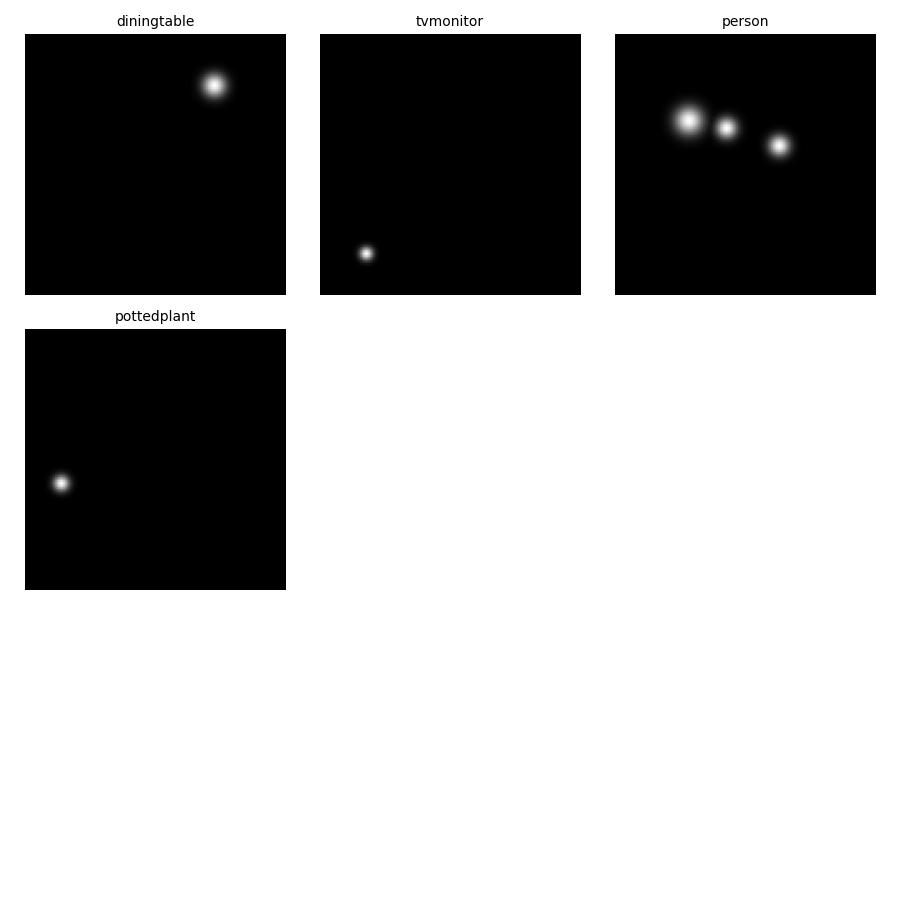
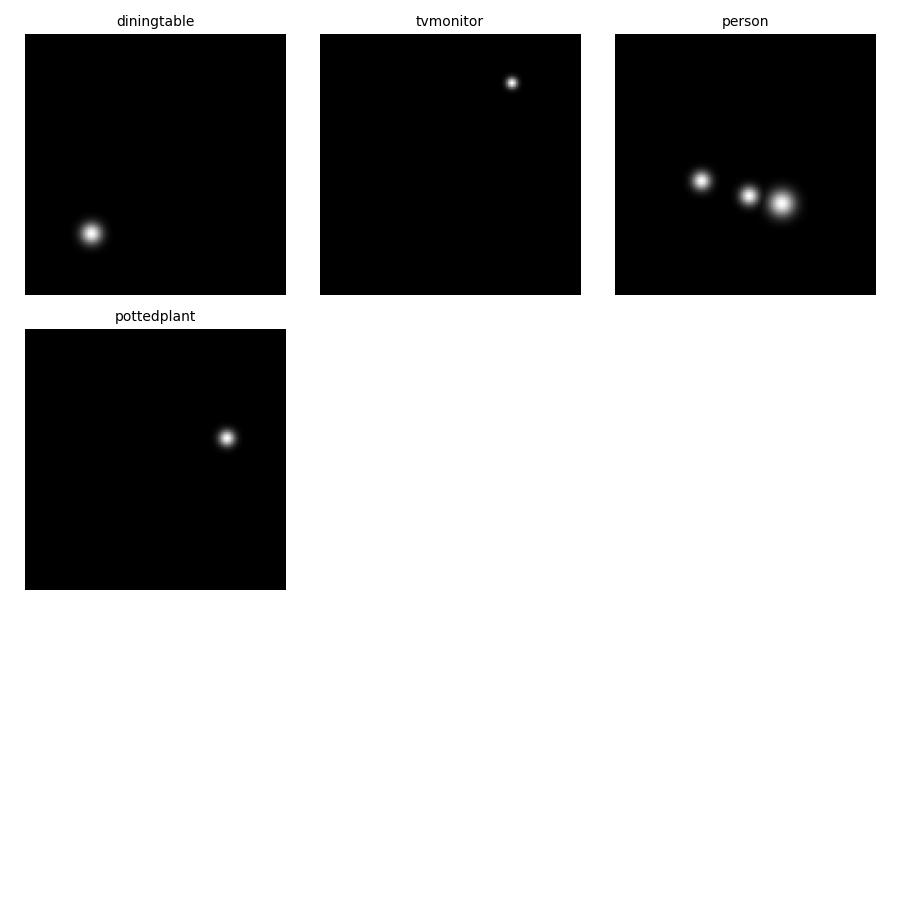
先关闭数据增强，来可视化对应的结果

diff --git a/test_utils/pred_feature_map.py b/test_utils/pred_feature_map.py
@@ -209,6 +209,7 @@ def draw_labeles():
     print(f"batch_offset: {batch_offset.shape}")
     print(f"batch_offset_mask: {batch_offset_mask.shape}")
 
+    # region heatmap
     hm_list = [batch_hm[...,cls] for cls in clses]
 
     # 创建一个 3x3 的子图布局 (最多 9 个子图)
@@ -228,11 +229,55 @@ def draw_labeles():
     img_name = train_dataset.get_image_id(img_idx) +"_heatmap"
     plt.savefig(osp.join(test_save_path,img_name + ".jpg"))
     plt.show()
+    # endregion
+    # region batch_wh
+
+def test():
+    np.random.seed(42)  # 设置随机种子，确保每次运行结果一致
+
+    # 创建一个100x100的图像，随机生成每个像素的宽高 (w, h)
+    image_wh = np.random.randint(1, 10, size=(100, 100, 2))  # 每个像素的宽高范围在 1 到 10 之间
+
+    # 创建一个绘图窗口
+    fig, ax = plt.subplots(figsize=(10, 10))
+
+    # 设置网格（背景图）
+    ax.set_xticks(np.arange(0, 101, 1))
+    ax.set_yticks(np.arange(0, 101, 1))
+    ax.grid(which='both')
+
+    # 绘制每个格子的箭头
+    for i in range(100):
+        for j in range(100):
+            w, h = image_wh[i, j]
+
+            if w > 0 and h > 0:
+                # 计算中心点
+                x_center, y_center = j + 0.5, i + 0.5  # 每个像素的中心
+                # 绘制左右箭头，长度为 w/2，方向为水平方向
+                ax.arrow(x_center, y_center, w / 2, 0, head_width=0.5, head_length=1, fc='r', ec='r')
+                ax.arrow(x_center, y_center, -w / 2, 0, head_width=0.5, head_length=1, fc='r', ec='r')
+                # 绘制上下箭头，长度为 h/2，方向为垂直方向
+                ax.arrow(x_center, y_center, 0, h / 2, head_width=0.5, head_length=1, fc='b', ec='b')
+                ax.arrow(x_center, y_center, 0, -h / 2, head_width=0.5, head_length=1, fc='b', ec='b')
+
+    # 设置坐标轴范围与图像大小
+    ax.set_xlim(0, 100)
+    ax.set_ylim(100, 0)  # y轴是倒的，和图像坐标一致
+    ax.set_aspect('equal')
+
+    # 隐藏坐标轴
+    ax.axis('off')
+
+    # 显示图像
+    plt.title('Visualization of Object Width and Height (w, h) with Arrows')
+    plt.show()
 
 if __name__ == '__main__':
     # test_train()
     # transform_image_bboxes()
     # ann_to_label()
-    draw_bboxes()
+    # draw_bboxes()
     # test_data_set()
-    # draw_labeles()
+    draw_labeles()
+    # test()

diff --git a/core/dataset/dataset.py b/core/dataset/dataset.py
@@ -52,8 +52,8 @@ class CenterNetDataset(Dataset):
         # Read image and bounding boxes
         image, bboxes = self.parse_annotation(index)
 
-        if self.is_train:
-            image, bboxes = self.data_augmentation(image, bboxes)
+        # if self.is_train:
+        #     image, bboxes = self.data_augmentation(image, bboxes)
 
         # Image preprocess
         image, bboxes = image_resize(image, self.input_shape, bboxes)
